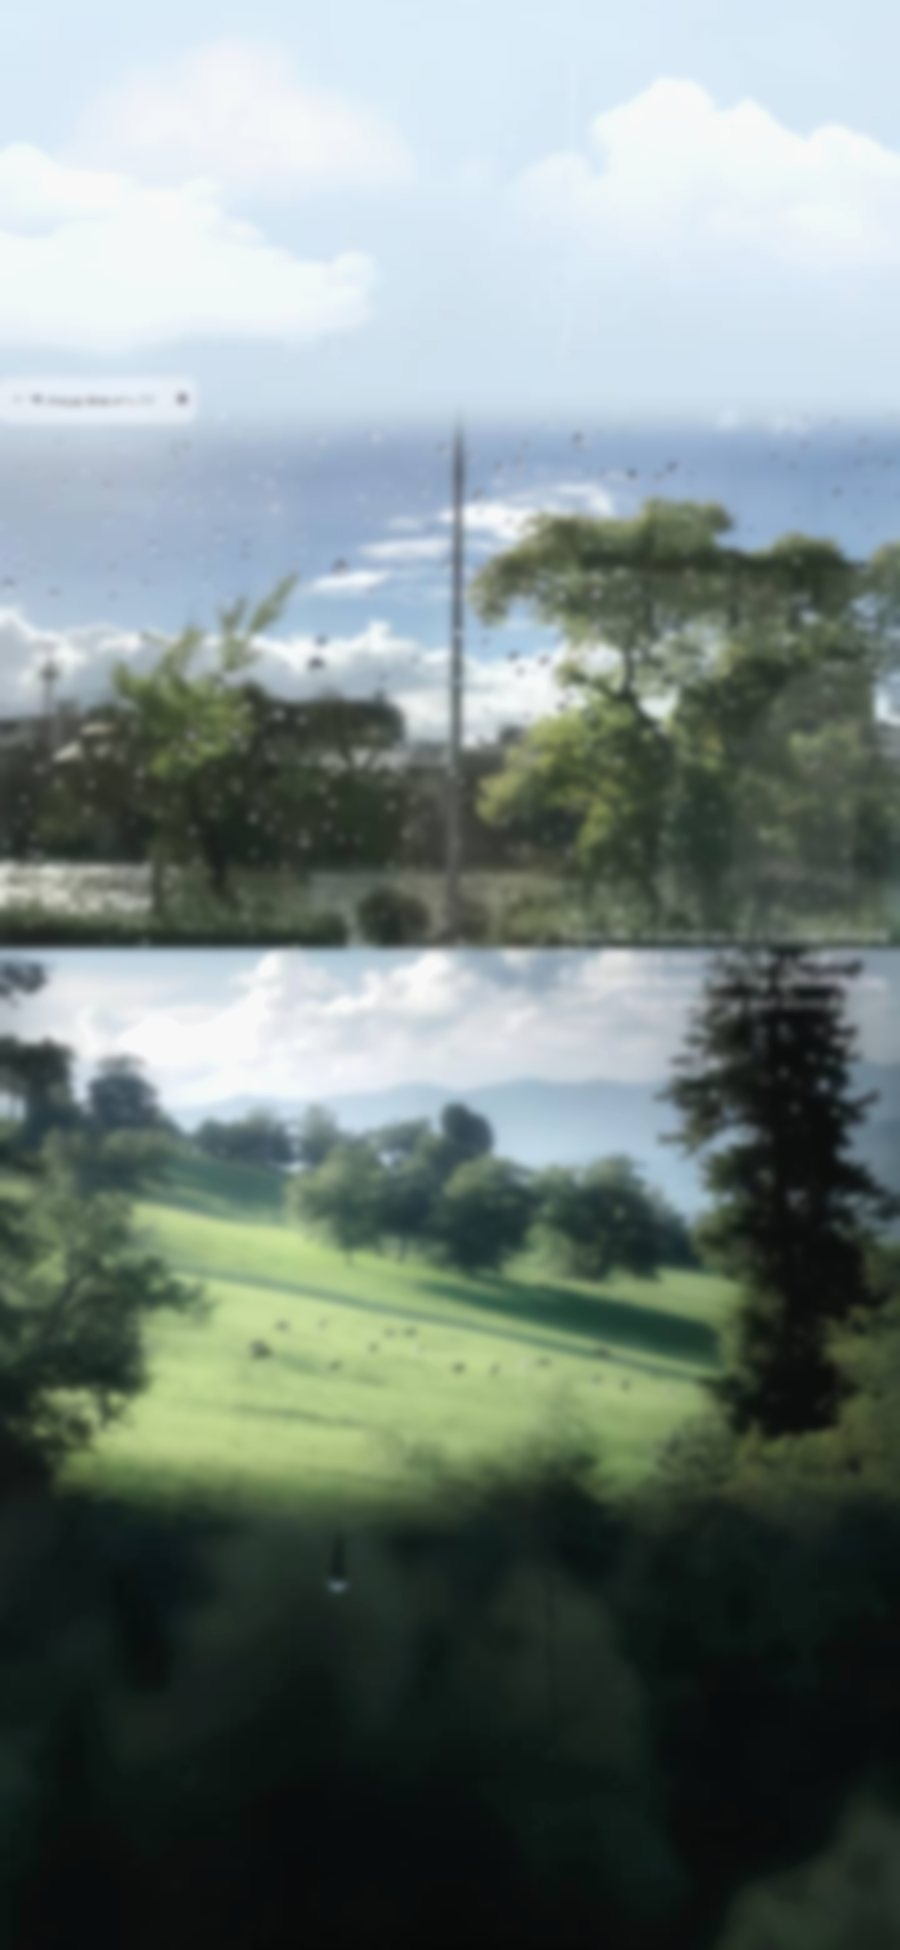
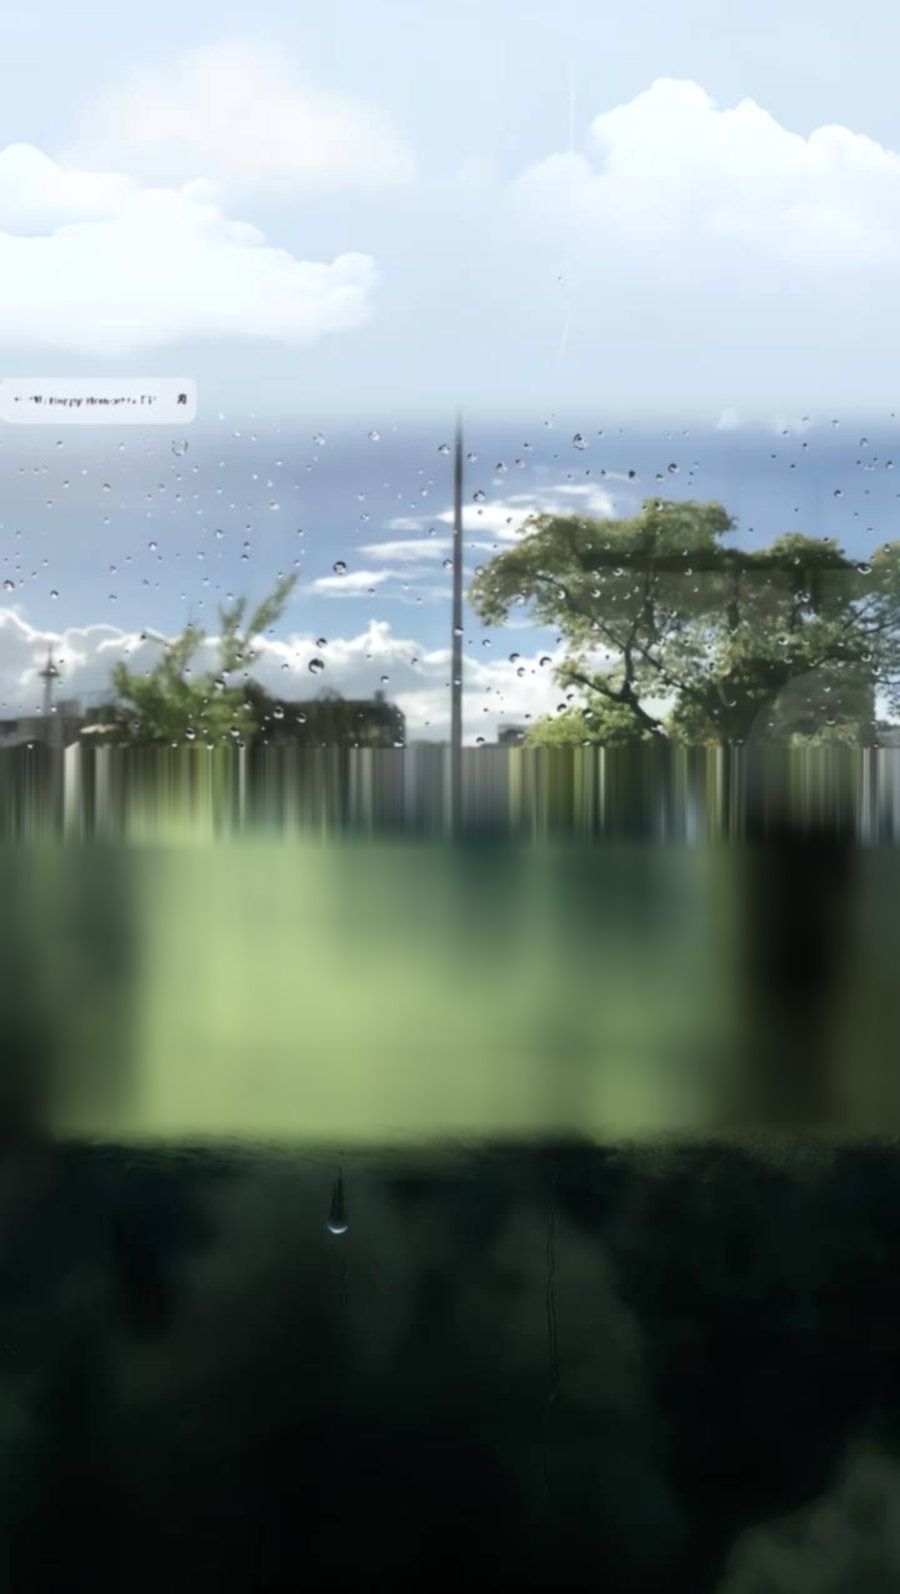
fix: 应用图标可跨页拖拽（边缘自动翻页+落页尾/落空白）+ 第二页不再被裁 + 统一磨砂玻璃 + 壁纸接缝抹平

diff --git a/js/app.js b/js/app.js
@@ -437,7 +437,10 @@
     return b;
   }
 
-  const APP_PER_PAGE = 8;    // 第二页放几个，剩下的去第三页（宁少不多，留白）
+  /* 第二页放几个应用，剩下的去第三页。
+     第二页上面还有组件（音乐条 / 他最近一句），放 8 个会顶出屏幕被裁掉，
+     看起来就像"只显示一排"。4 个 + 组件刚好一屏，第三页纯图标放得下。 */
+  const APP_PER_PAGE = 4;
 
   function renderApps() {
     const grid = $('appGrid');
@@ -560,6 +563,11 @@
     const idx = Math.round(pager.scrollLeft / w);
     Array.prototype.forEach.call(dotsBox.children, (d, i) => {
       d.classList.toggle('on', i === idx);
+    });
+    /* 只让当前页开毛玻璃：屏幕外那一页的 backdrop-filter 会串味，
+       把它的模糊采样画到当前页上（Chromium 在横向滚动容器里的老毛病） */
+    Array.prototype.forEach.call(pager.children, (p, i) => {
+      p.classList.toggle('active', i === idx);
     });
   }
 
@@ -783,17 +791,9 @@
     save(KEY.settings, S.settings);
   }
 
-  /* 哪些组件不出现在桌面（美化页里关掉的） */
-  function widgetCfg() {
-    const w = S.settings.widgets || {};
-    return { hidden: Array.isArray(w.hidden) ? w.hidden : [] };
-  }
-  function patchWidgets(hidden) {
-    S.settings.widgets = { hidden: hidden };
-    save(KEY.settings, S.settings);
-  }
-
-  /* 组件归属：p1 里的放首页，其余放第二页（美化页可调） */
+  /* 组件归属：p1 里的放首页，其余放第二页（美化页可调）；
+     关掉的收在 hidden 里。下面这份是唯一生效的定义（老代码重复定义过两份，
+     后一份会把前一份盖掉，容易看花眼，这里只留一份）。 */
   const WIDGET_CN = {
     pair: '两个人',
     days: '在一起多少天',
@@ -1058,12 +1058,42 @@
     ghost.style.transform = 'translate3d(' + dx + 'px,' + dy + 'px,0) scale(1.05)';
   }
 
+  /* ---- 拖到屏幕边缘：自动翻到相邻页（真机桌面就是这个手感）---- */
+  const EDGE_W = 34;       // 边缘多宽算"想翻页"
+  const EDGE_MS = 520;     // 在边缘按住多久才翻
+  let edgeTimer = 0;
+  let edgeDir = 0;
+  function stopEdge() {
+    if (edgeTimer) { clearTimeout(edgeTimer); edgeTimer = 0; }
+    edgeDir = 0;
+  }
+  function edgeScroll(x) {
+    if (!editing || !pager) { stopEdge(); return; }
+    const r = pager.getBoundingClientRect();
+    let dir = 0;
+    if (x < r.left + EDGE_W) dir = -1;
+    else if (x > r.right - EDGE_W) dir = 1;
+    if (!dir) { stopEdge(); return; }
+    if (edgeDir === dir && edgeTimer) return;   // 同一边，等着
+    stopEdge();
+    edgeDir = dir;
+    edgeTimer = setTimeout(() => {
+      edgeTimer = 0;
+      edgeDir = 0;
+      const w = pager.clientWidth || 1;
+      const i = Math.round(pager.scrollLeft / w) + dir;
+      const max = pager.scrollWidth - w;
+      pager.scrollTo({ left: Math.max(0, Math.min(max, i * w)), behavior: 'smooth' });
+    }, EDGE_MS);
+  }
+
   /* ---- 开始拖 ---- */
   function beginDrag(g) {
     if (!g || !g.dragEl) return;
     if (!editing) setEdit(true);
     g.mode = 'drag';
     g.dropEl = null;
+    g.dropZone = null;
     g.dragMoved = false;
     makeGhost(g.dragEl);                 // 先克隆，再给原位置打隐藏标记
     g.dragEl.classList.add('drag-src');
@@ -1073,18 +1103,22 @@
 
   function clearDrop(g) {
     if (g && g.dropEl) g.dropEl.classList.remove('drop-on');
-    if (g) g.dropEl = null;
+    if (g && g.dropZone) g.dropZone.classList.remove('drop-on');
+    if (g) { g.dropEl = null; g.dropZone = null; }
   }
 
   function abortDrag(g) {
+    stopEdge();
     killGhost();
     if (g && g.dragEl) g.dragEl.classList.remove('drag-src');
     clearDrop(g);
   }
 
   /* 手指下面是什么：
-     组件只能在组件之间换；应用图标可以在首页的应用行和第二页之间换；
-     底部常驻只在常驻里换 —— 三者互不串味 */
+     组件只能在组件之间换；应用图标可以在首页应用行、第二页、第三页之间换；
+     底部常驻只在常驻里换 —— 三者互不串味。
+     拖到某一页的空白处也算数：落到那一页应用列表的末尾。这样从第二页往
+     第三页拖，不必非得瞄准某个图标，按在那页空位上松手就过去。 */
   function updateDrop(g, x, y) {
     const el = g.dragEl;
     const isW = el.classList.contains('w');
@@ -1100,10 +1134,35 @@
       // 四格组件里的图标不算落点
       else if (!cs && !t.closest('.app-row') && !t.closest('#appGrid') && !t.closest('#appGrid2')) t = null;
     }
-    if (t !== g.dropEl) {
+    /* 没命中图标：看看是不是按在另一页的空白处（落页尾）。
+       网格是 align-content:start 的，空白在容器外面 —— 所以整页空白都算，
+       归到那一页的应用容器（第一页取 bento 里最后一排应用行）。
+       按在自己本来那页的空白处不算 —— 那等于哪都没去。 */
+    let zone = null;
+    if (!t && !isW) {
+      const cs = el.closest('#dock');
+      if (!cs) {
+        let z = under.closest('.app-row, #appGrid, #appGrid2');
+        if (!z) {
+          const pg = under.closest('.home-page');
+          if (pg) {
+            z = pg.querySelector('.app-grid');
+            if (!z) {
+              const rows = pg.querySelectorAll('.app-row');
+              if (rows.length) z = rows[rows.length - 1];
+            }
+          }
+        }
+        if (z && z !== el.closest('.app-row, #appGrid, #appGrid2')) zone = z;
+      }
+    }
+    if (t !== g.dropEl || zone !== g.dropZone) {
       if (g.dropEl) g.dropEl.classList.remove('drop-on');
+      if (g.dropZone) g.dropZone.classList.remove('drop-on');
       g.dropEl = t;
+      g.dropZone = zone;
       if (t) t.classList.add('drop-on');
+      if (zone) zone.classList.add('drop-on');
     }
   }
 
@@ -1135,33 +1194,51 @@
 
   function commitDrag(g, fromRect) {
     const src = g.dragEl, dst = g.dropEl;
-    if (!dst) return false;
     const isW = src.classList.contains('w');
-    const idA = isW ? src.dataset.id : src.dataset.app;
-    const idB = isW ? dst.dataset.id : dst.dataset.app;
-    const box = src.parentElement;
     if (isW) {
+      if (!dst) return false;
+      const idA = src.dataset.id;
+      const idB = dst.dataset.id;
       const a = layout.indexOf(idA), b = layout.indexOf(idB);
       if (a < 0 || b < 0) return false;
       layout.splice(a, 1);
       layout.splice(b, 0, idA);
       save(KEY.layout, layout);
       flipAll('.bento .w', 'id', () => { renderBento(); renderBento2(); }, fromRect ? { id: idA, r: fromRect } : null);
-    } else {
-      const inDock = !!src.closest('#dock');
-      const arr = inDock ? DOCK : APPS;
-      const a = arr.findIndex((x) => x.id === idA);
-      const b = arr.findIndex((x) => x.id === idB);
-      if (a < 0 || b < 0) return false;
-      const item = arr.splice(a, 1)[0];
-      arr.splice(b, 0, item);
-      save(KEY.apps, APPS.map((x) => x.id));
-      save(KEY.dock, DOCK.map((x) => x.id));
-      const sel = inDock ? '#dock .tile' : '.app-row .tile, #appGrid .tile, #appGrid2 .tile';
-      flipAll(sel, 'app', () => {
-        if (inDock) renderApps(); else { renderBento(); renderApps(); }
-      }, fromRect ? { id: idA, r: fromRect } : null);
+      return true;
     }
+
+    /* ---- 应用图标：dock 内换位，或跨页移动到目标位置 ---- */
+    const idA = src.dataset.app;
+    const inDock = !!src.closest('#dock');
+    const arr = inDock ? DOCK : APPS;
+    const a = arr.findIndex((x) => x.id === idA);
+    if (a < 0) return false;
+
+    let b;   //  dragged 要去的全局下标
+    if (dst) {
+      b = arr.findIndex((x) => x.id === dst.dataset.app);
+      if (b < 0) return false;
+    } else if (g.dropZone) {
+      // 落在某页空白：插到那一页最后一个后面（页尾）
+      const last = g.dropZone.lastElementChild;
+      const lastId = last ? (last.dataset.app || last.dataset.id) : '';
+      const li = lastId ? arr.findIndex((x) => x.id === lastId) : -1;
+      if (li < 0) return false;
+      b = li + 1;
+    } else {
+      return false;   // 哪儿都没落上 → 回原位
+    }
+
+    const item = arr.splice(a, 1)[0];
+    if (b > a) b -= 1;               // 移除后目标下标左移一位，保证"移到目标处"而不是越过
+    arr.splice(b, 0, item);
+    save(KEY.apps, APPS.map((x) => x.id));
+    save(KEY.dock, DOCK.map((x) => x.id));
+    const sel = inDock ? '#dock .tile' : '.app-row .tile, #appGrid .tile, #appGrid2 .tile';
+    flipAll(sel, 'app', () => {
+      if (inDock) renderApps(); else { renderBento(); renderApps(); }
+    }, fromRect ? { id: idA, r: fromRect } : null);
     return true;
   }
 
@@ -1223,6 +1300,7 @@
       if (ges.moved > 6) ges.dragMoved = true;
       moveGhost(ges, e.clientX, e.clientY);
       updateDrop(ges, e.clientX, e.clientY);
+      edgeScroll(e.clientX);            // 拖到边缘 → 自动翻页，才能去别的页面
       return;
     }
 
@@ -1262,6 +1340,7 @@
       const gr = ghostRect();               // 先量 ghost 落点，再撤
       killGhost();
       if (g.dragEl) g.dragEl.classList.remove('drag-src');
+      stopEdge();
       commitDrag(g, gr);
       clearDrop(g);
       suppressClick = performance.now() + 260;

diff --git a/css/style.css b/css/style.css
@@ -3164,4 +3164,88 @@ body[data-wall="photo"] .bg {
   background:
     linear-gradient(180deg, rgba(255, 255, 255, 0.24) 0%, rgba(255, 255, 255, 0.34) 42%, rgba(255, 255, 255, 0.54) 100%),
     url("../icons/wall-soft.jpg") !important;
+  /* 图是两张照片拼的，接缝正好压在图标名字那行 —— 放大一点、往上挪开 */
+  background-size: auto 122% !important;
+  background-position: center 34% !important;
+}
+
+/* 线稿颜色：用 id 级选择器压过旧的 #6f7480（之前被 .tile:nth-child(odd) 那条盖住了） */
+#bento .tile-ic svg,
+#appGrid .tile-ic svg,
+#appGrid2 .tile-ic svg,
+#dock .tile-ic svg,
+.mini-tile svg {
+  stroke: rgba(40, 44, 54, 0.88) !important;
+  stroke-width: 1.55 !important;
+  stroke-linecap: round !important;
+  stroke-linejoin: round !important;
+  fill: none !important;
+}
+
+/* 非当前页关掉毛玻璃（防串味 + 省性能） */
+.home-page:not(.active) .glass,
+.home-page:not(.active) .tile-ic {
+  backdrop-filter: none !important;
+  -webkit-backdrop-filter: none !important;
+}
+
+/* ============================================================
+   磨砂玻璃（frosted glass）
+   —— 之前各层皮肤把 blur/白纱越改越薄，这里统一收厚一档：
+   模糊更开、饱和度更高（背后的颜色透出来是鲜的，不是灰的）、
+   白纱半透（看得见壁纸但不抢字）、上下各一道细高光勾出"玻璃厚度"。
+   这条放在最后面，压过上面所有皮肤层；非当前页关模糊的规则在更下面，
+   照样生效，所以串味和性能都不受影响。
+   ============================================================ */
+.glass,
+.dock.glass,
+.cal-card,
+.anniv-card,
+.week-card,
+.stat-card,
+.dev-card,
+.list-card {
+  background: rgba(255, 255, 255, 0.4) !important;
+  border: 1px solid rgba(255, 255, 255, 0.62) !important;
+  border-radius: 28px !important;
+  box-shadow:
+    inset 0 1px 0 rgba(255, 255, 255, 0.95),
+    inset 0 -1px 0 rgba(255, 255, 255, 0.28),
+    0 10px 30px rgba(96, 96, 120, 0.08) !important;
+  backdrop-filter: blur(26px) saturate(1.55);
+  -webkit-backdrop-filter: blur(26px) saturate(1.55);
+}
+.dock.glass {
+  background: rgba(255, 255, 255, 0.44) !important;
+  backdrop-filter: blur(30px) saturate(1.6);
+  -webkit-backdrop-filter: blur(30px) saturate(1.6);
+}
+
+/* 图标托底也跟上：磨砂感但别糊成一团 */
+.tile-ic,
+.dock .tile-ic,
+.app-row .tile-ic,
+.quad .tile-ic {
+  background: rgba(255, 255, 255, 0.5) !important;
+  border: 1px solid rgba(255, 255, 255, 0.75) !important;
+  box-shadow:
+    inset 0 1px 0 rgba(255, 255, 255, 0.95),
+    0 4px 12px rgba(60, 62, 82, 0.08) !important;
+  backdrop-filter: blur(16px) saturate(1.3);
+  -webkit-backdrop-filter: blur(16px) saturate(1.3);
+}
+
+/* 转场进行中：全部临时收掉模糊，别让每帧重算拖慢动画 */
+.phone.moving .glass,
+.phone.moving .tile-ic {
+  backdrop-filter: none !important;
+  -webkit-backdrop-filter: none !important;
+}
+
+/* 落到整页容器上（跨页拖拽的落点高亮）：一圈细线，不晃动 */
+.app-row.drop-on,
+#appGrid.drop-on,
+#appGrid2.drop-on {
+  box-shadow: inset 0 0 0 1.5px rgba(31, 35, 43, 0.35);
+  border-radius: 20px;
 }

diff --git a/sw.js b/sw.js
@@ -1,4 +1,4 @@
-const CACHE = 'xiaoman-v14';
+const CACHE = 'xiaoman-v16';
 const ASSETS = [
   './',
   './index.html',
